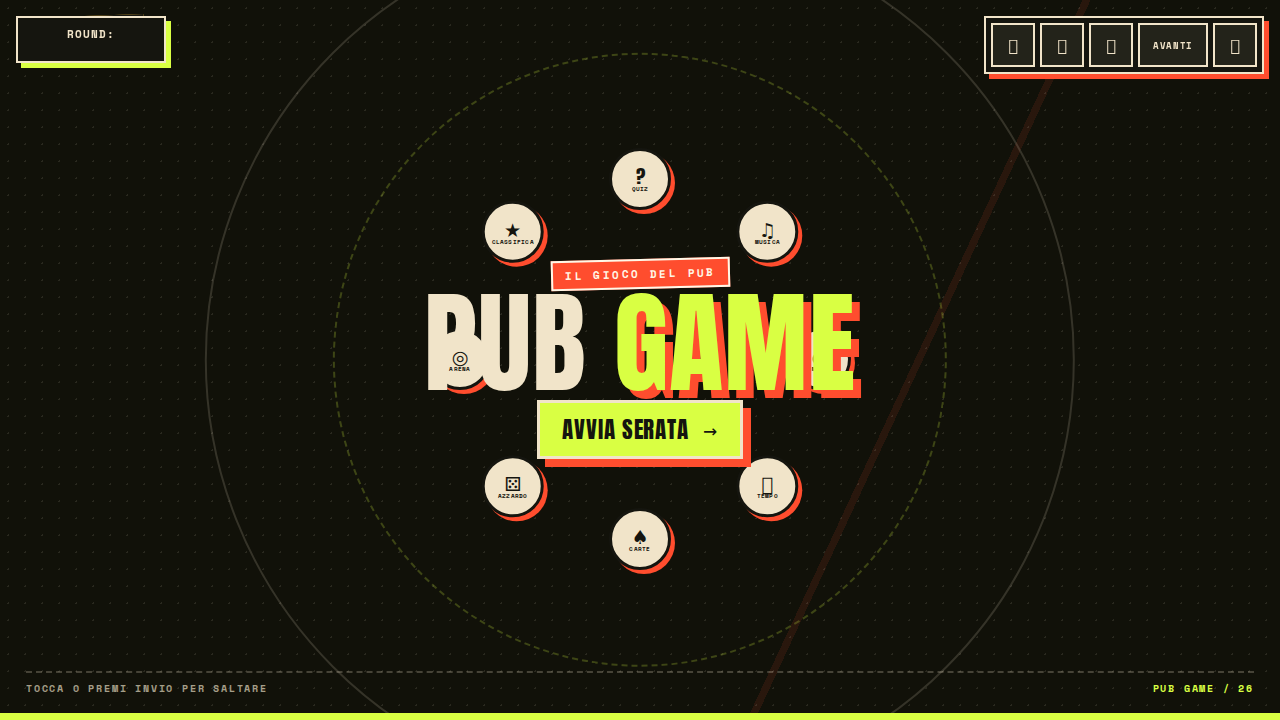
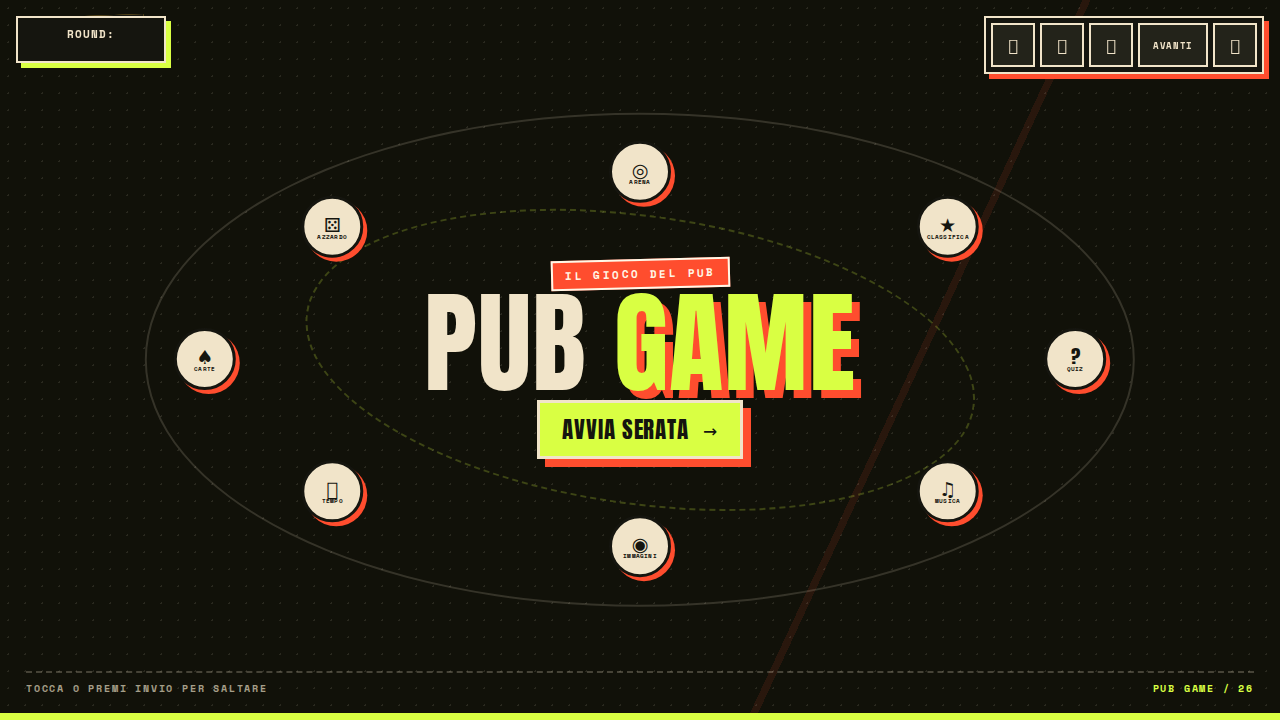
fix(tv): orbita ellittica per le icone dell'intro
Le icone delle modalità stavano sopra le lettere di PUB GAME: il cerchio aveva
raggio verticale ma il logo è largo il doppio. L'orbita ora è un'ellisse con
raggi separati (38vw × 31vmin, ridotti a 720p e sotto i 900 px), e anche i due
anelli decorativi seguono la stessa ellisse.

Verificato a 1920×1080 e 1280×720: zero sovrapposizioni fra icone e riquadro del
logo, nessun pixel fuori schermo.

Generated with Codebuff

diff --git a/apps/frontend/src/app/features/tv/restyle.css b/apps/frontend/src/app/features/tv/restyle.css
@@ -821,6 +821,9 @@
 
 /* ---------------------------------------------------------------- Intro */
 .intro-screen {
+  /* Raggio dell'orbita delle icone: ellittica perché il logo è largo. */
+  --intro-rx: clamp(330px, 38vw, 720px);
+  --intro-ry: clamp(210px, 31vmin, 340px);
   position: fixed;
   inset: 0;
   z-index: 300;
@@ -896,13 +899,15 @@
   transform: translate(-50%, -50%);
   pointer-events: none;
 }
+/* L'orbita è un'ellisse: il logo è largo, un cerchio lascerebbe le icone
+   sopra le lettere. */
 .intro-orbit-a {
-  width: min(68vw, 980px);
-  aspect-ratio: 1;
+  width: calc(var(--intro-rx) * 2 + 120px);
+  height: calc(var(--intro-ry) * 2 + 120px);
 }
 .intro-orbit-b {
-  width: min(48vw, 690px);
-  aspect-ratio: 1;
+  width: calc(var(--intro-rx) * 1.55);
+  height: calc(var(--intro-ry) * 1.55);
   border-color: color-mix(in srgb, var(--acid) 22%, transparent);
   border-style: dashed;
   transform: translate(-50%, -50%) rotate(8deg);
@@ -932,10 +937,10 @@
   border: 3px solid var(--coal);
   border-radius: 50%;
   box-shadow: 5px 5px 0 var(--tomato);
-  transform:
-    rotate(calc(var(--i) * 45deg))
-    translateY(calc(-1 * clamp(178px, 27vmin, 318px)))
-    rotate(calc(var(--i) * -45deg));
+  transform: translate(
+    calc(cos(calc(var(--i) * 45deg)) * var(--intro-rx)),
+    calc(sin(calc(var(--i) * 45deg)) * var(--intro-ry))
+  );
   animation: introIconIn 0.45s cubic-bezier(0.2, 0.8, 0.2, 1) both;
   animation-delay: calc(0.18s + var(--i) * 0.045s);
 }
@@ -1071,16 +1076,16 @@
 
 @media (max-height: 760px) {
   .intro-screen { padding: 16px 26px; gap: 8px; }
+  .intro-screen {
+    --intro-rx: clamp(300px, 34vw, 560px);
+    --intro-ry: clamp(180px, 26vmin, 250px);
+  }
   .intro-icon {
     left: -31px;
     top: -31px;
     width: 62px;
     height: 62px;
     box-shadow: 4px 4px 0 var(--tomato);
-    transform:
-      rotate(calc(var(--i) * 45deg))
-      translateY(calc(-1 * clamp(145px, 25vmin, 195px)))
-      rotate(calc(var(--i) * -45deg));
   }
   .intro-logo { font-size: clamp(4rem, 10vw, 7rem); }
   .intro-tagline { display: none; }
@@ -1090,17 +1095,15 @@
 
 @media (max-width: 900px) {
   .intro-meta { display: none; }
-  .intro-orbit-a { width: 92vw; }
-  .intro-orbit-b { width: 70vw; }
+  .intro-screen {
+    --intro-rx: clamp(220px, 44vw, 460px);
+    --intro-ry: clamp(170px, 27vmin, 230px);
+  }
   .intro-icon {
     left: -26px;
     top: -26px;
     width: 52px;
     height: 52px;
-    transform:
-      rotate(calc(var(--i) * 45deg))
-      translateY(calc(-1 * clamp(118px, 26vmin, 165px)))
-      rotate(calc(var(--i) * -45deg));
   }
   .intro-icon small { display: none; }
   .intro-logo { font-size: clamp(3.4rem, 15vw, 6rem); }
